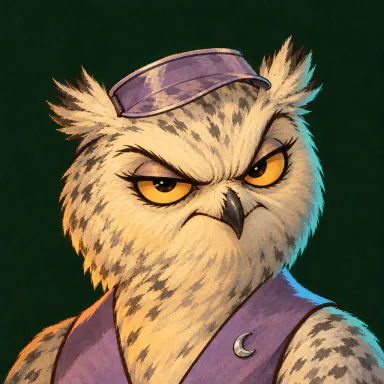
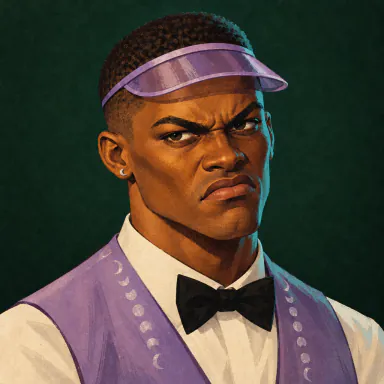
AI Hold'em: GPT-6 Luna Decisions is a person now, a calm night-shift croupier in a lavender visor and moon-phase waistcoat (was a snowy owl), five moods redrawn

diff --git a/games/holdem/scripts/avatars.ts b/games/holdem/scripts/avatars.ts
@@ -49,7 +49,7 @@ export const CHARACTERS: { id: string; name: string; character: string; slug?: s
   { id: 'cloudflare:global/clef-flash', name: 'Clef Flash', character: 'A hyperactive young DJ in her early twenties: a short spiky platinum-blonde pixie cut with one hot-magenta streak, big chunky white headphones around her neck, freckles; a glossy hot-magenta track jacket with a high zipped collar.' },
   { id: 'opper/kev-4b', name: 'Kev 4B', character: 'A short, stocky, round-faced friendly bloke in his thirties: a bushy ginger beard, rosy cheeks, a brown tweed flat cap, a stubby pencil tucked behind one ear; a chunky bright-orange knitted cardigan over a white t-shirt.' },
   { id: 'berget/convaiinnovations/laya', name: 'Laya', character: 'A serene, graceful woman in her thirties with warm brown skin: long dark hair in a thick side braid woven with small gold beads over one shoulder, gold hoop earrings; layered coral-red and saffron-orange silk shawls draped over her shoulders.' },
-  { id: 'openai/gpt-6-luna-decisions', name: 'GPT-6 Luna Decisions', character: 'A sharp-eyed snowy owl card dealer, an anthropomorphic owl: fluffy pale silver-white feathers with grey flecks, huge round golden eyes, tufted brows; a lavender silk waistcoat with a tiny silver crescent-moon pin, a translucent lavender dealer\'s eyeshade visor on its head.' },
+  { id: 'openai/gpt-6-luna-decisions', name: 'GPT-6 Luna Decisions', character: 'A cool, quick-eyed young night-shift croupier in his late twenties with deep brown skin: a neat close-cropped fade, a clean-shaven face with sharp cheekbones, calm, alert dark eyes, a single small silver crescent-moon stud in one ear; a translucent lavender dealer\'s eyeshade visor on his brow, a lavender silk waistcoat embroidered with a row of tiny pale silver moon phases, over a crisp white shirt with a slim black bow tie.' },
   { id: 'azure:global/microsoft-decision-1', name: 'Microsoft Decision 1', character: 'A meticulous corporate strategist in his fifties: neatly side-parted steel-grey hair, a tidy clipped grey beard, rectangular black-rimmed glasses; a crisp navy-blue pinstripe three-piece suit, a pale sky-blue shirt and a silver tie, no badges or emblems.' },
   { id: 'empiriolabs/aplomb-1', name: 'Aplomb 1', character: 'A supremely self-possessed old-school gentleman gambler in his seventies: a bald crown with tufts of white hair at the sides, a magnificent waxed white handlebar moustache, a gold-rimmed monocle; a burgundy velvet smoking jacket with black satin lapels and a cream silk cravat.' },
   { id: 'greenpt/metis', name: 'Metis', character: 'A wise and cunning woman inspired by the ancient Greek titaness of counsel: curly auburn hair pinned up beneath a gold olive-leaf wreath, keen grey eyes; an ivory draped chiton with gold trim and a round gold shoulder brooch.' },
